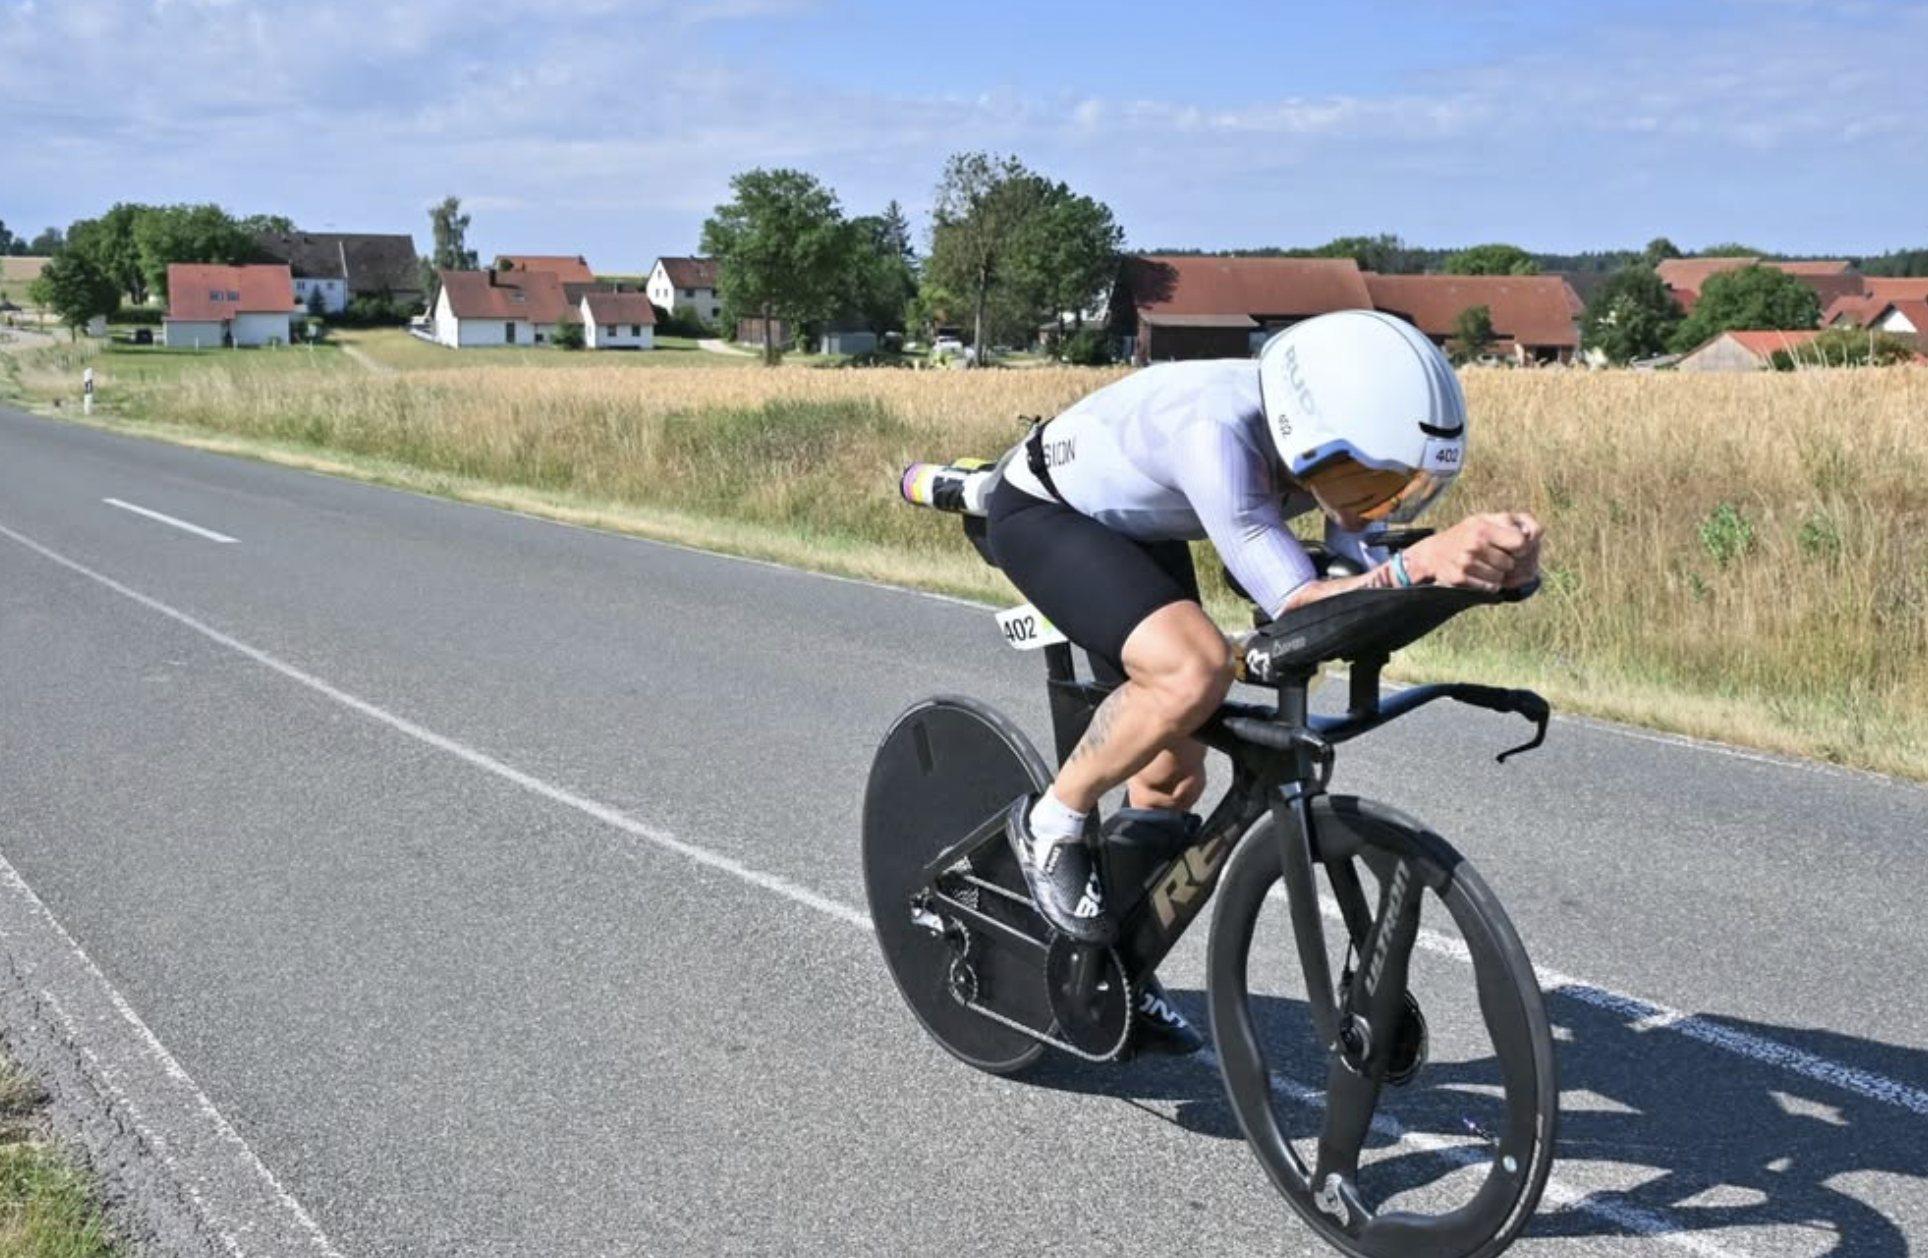
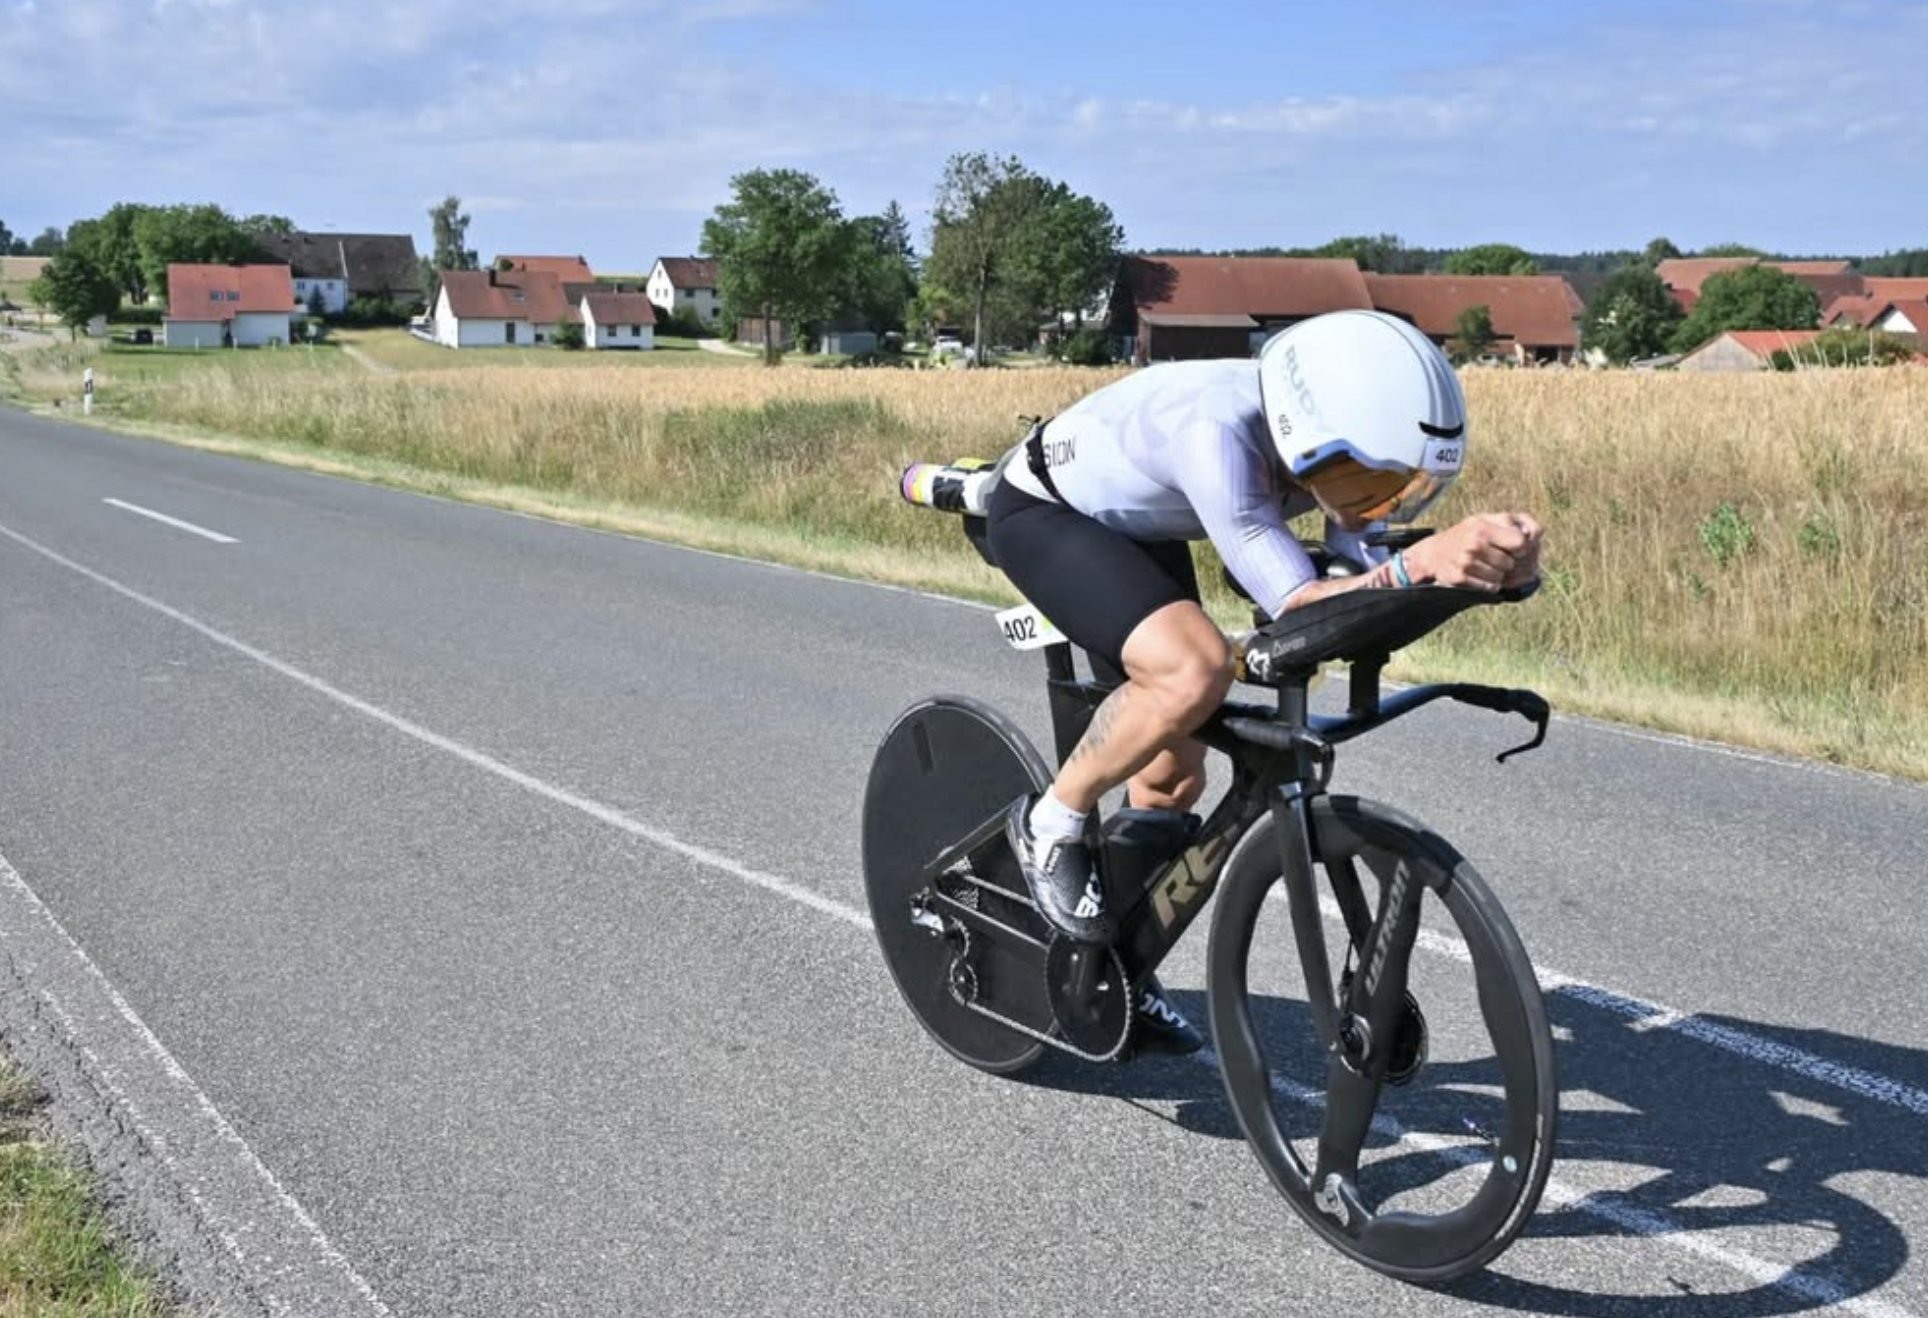
Training photo: keep front wheel in frame
Claude-Session: https://claude.ai/code/session_01G5mS6VZXoTZDfxDXCvHeEY

diff --git a/index.html b/index.html
@@ -142,7 +142,7 @@
         <h2 class="display big" data-reveal>Every<br>session.</h2>
         <p class="intro intro-small" data-reveal>Coached by professional coaches since 2015.<br>Following an 80/20 scientific approach in the last years: most of the volume easy, a small, well-dosed slice hard.<br><br>Numbers updated daily from my Garmin Connect.<br>Most of my swim sessions are not recorded with any device, so that data won't appear here. Same for easy and recovery runs.</p>
       </div>
-      <div class="story-photo d-15" data-reveal><img class="op-74-50" src="img/training-roth.jpg" alt="In the aero position on the time-trial bike at Challenge Roth, 2026" data-parallax="-0.12" loading="lazy"></div>
+      <div class="story-photo d-15" data-reveal><img class="op-74-50 full" src="img/training-roth.jpg" alt="In the aero position on the time-trial bike at Challenge Roth, 2026" loading="lazy"></div>
     </div>
     <div class="train-grid">
       <div class="tile" data-reveal><span class="mono">Swim · <span data-stat="year">2026</span></span><span class="num"><span data-stat="ytd.swim.km" data-format="int" data-count>–</span></span><p>km in <span data-stat="ytd.swim.count" data-format="int">–</span> sessions</p></div>

diff --git a/site/css/styles.css b/site/css/styles.css
@@ -150,7 +150,7 @@ body { overflow-x:clip; }
 .d-06 { --d:.06s; } .d-08 { --d:.08s; } .d-1 { --d:.1s; } .d-12 { --d:.12s; } .d-14 { --d:.14s; } .d-15 { --d:.15s; } .d-16 { --d:.16s; } .d-18 { --d:.18s; } .d-22 { --d:.22s; } .d-24 { --d:.24s; } .d-7 { --d:.7s; } .d-85 { --d:.85s; }
 
 /* image framing */
-.op-70-70 { object-position:70% 70%; } .op-74-50, .story-photo img.op-74-50 { object-position:74% 50%; } .op-70-50 { object-position:70% 50%; } .op-50-92 { object-position:50% 92%; } .op-50-35 { object-position:50% 35%; } .op-50-30 { object-position:50% 30%; } .op-50-20 { object-position:50% 20%; } .op-45-40 { object-position:45% 40%; } .op-40-30 { object-position:40% 30%; }
+.op-70-70 { object-position:70% 70%; } .op-74-50, .story-photo img.op-74-50 { object-position:74% 50%; } .story-photo img.full { height:100%; } /* whole photo visible, no parallax crop */ .op-70-50 { object-position:70% 50%; } .op-50-92 { object-position:50% 92%; } .op-50-35 { object-position:50% 35%; } .op-50-30 { object-position:50% 30%; } .op-50-20 { object-position:50% 20%; } .op-45-40 { object-position:45% 40%; } .op-40-30 { object-position:40% 30%; }
 
 @media (max-width: 1023px) {
   .res-head { display:none; }
